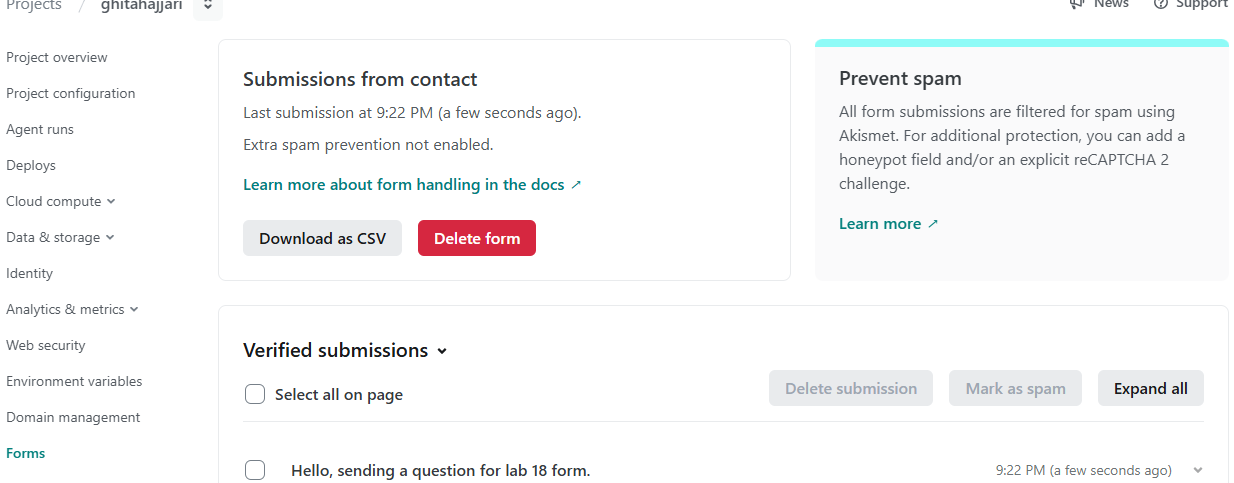
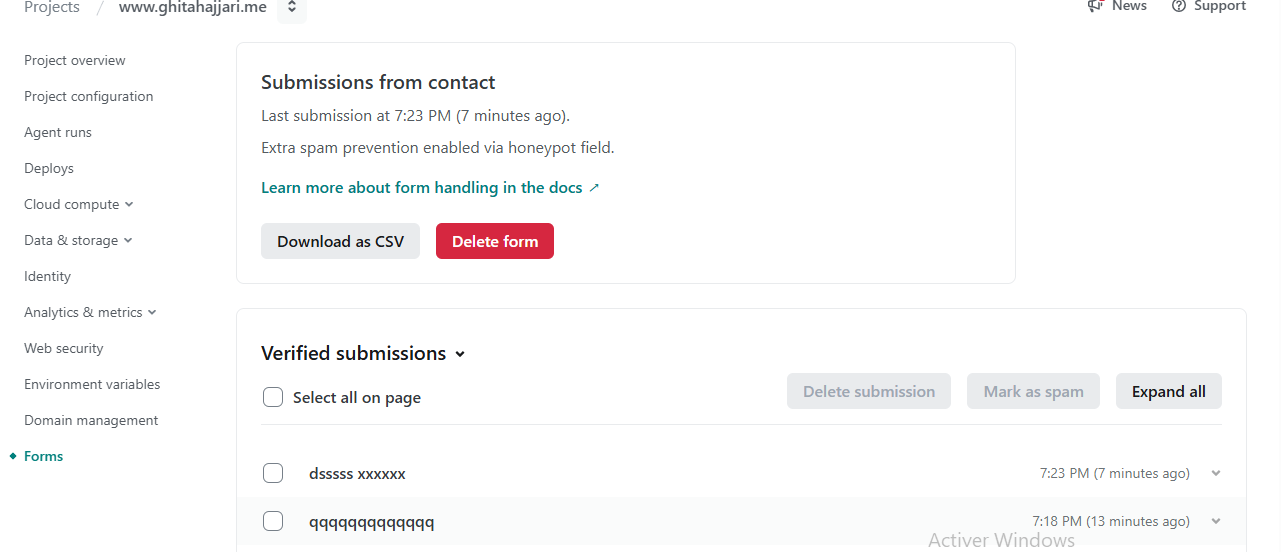
Fixes

diff --git a/404.html b/404.html
@@ -24,7 +24,7 @@
         </ul>
     </nav>
     <header>
-        <img src="images/me.jpg" alt="Ocean picture taken by Ghita Hajjari" class="portrait">
+        <img src="/images/me.jpg" alt="Ocean picture taken by Ghita Hajjari" class="portrait">
     </header>
 
     <!-- Lab 18: Task 3: where the form lands -->
